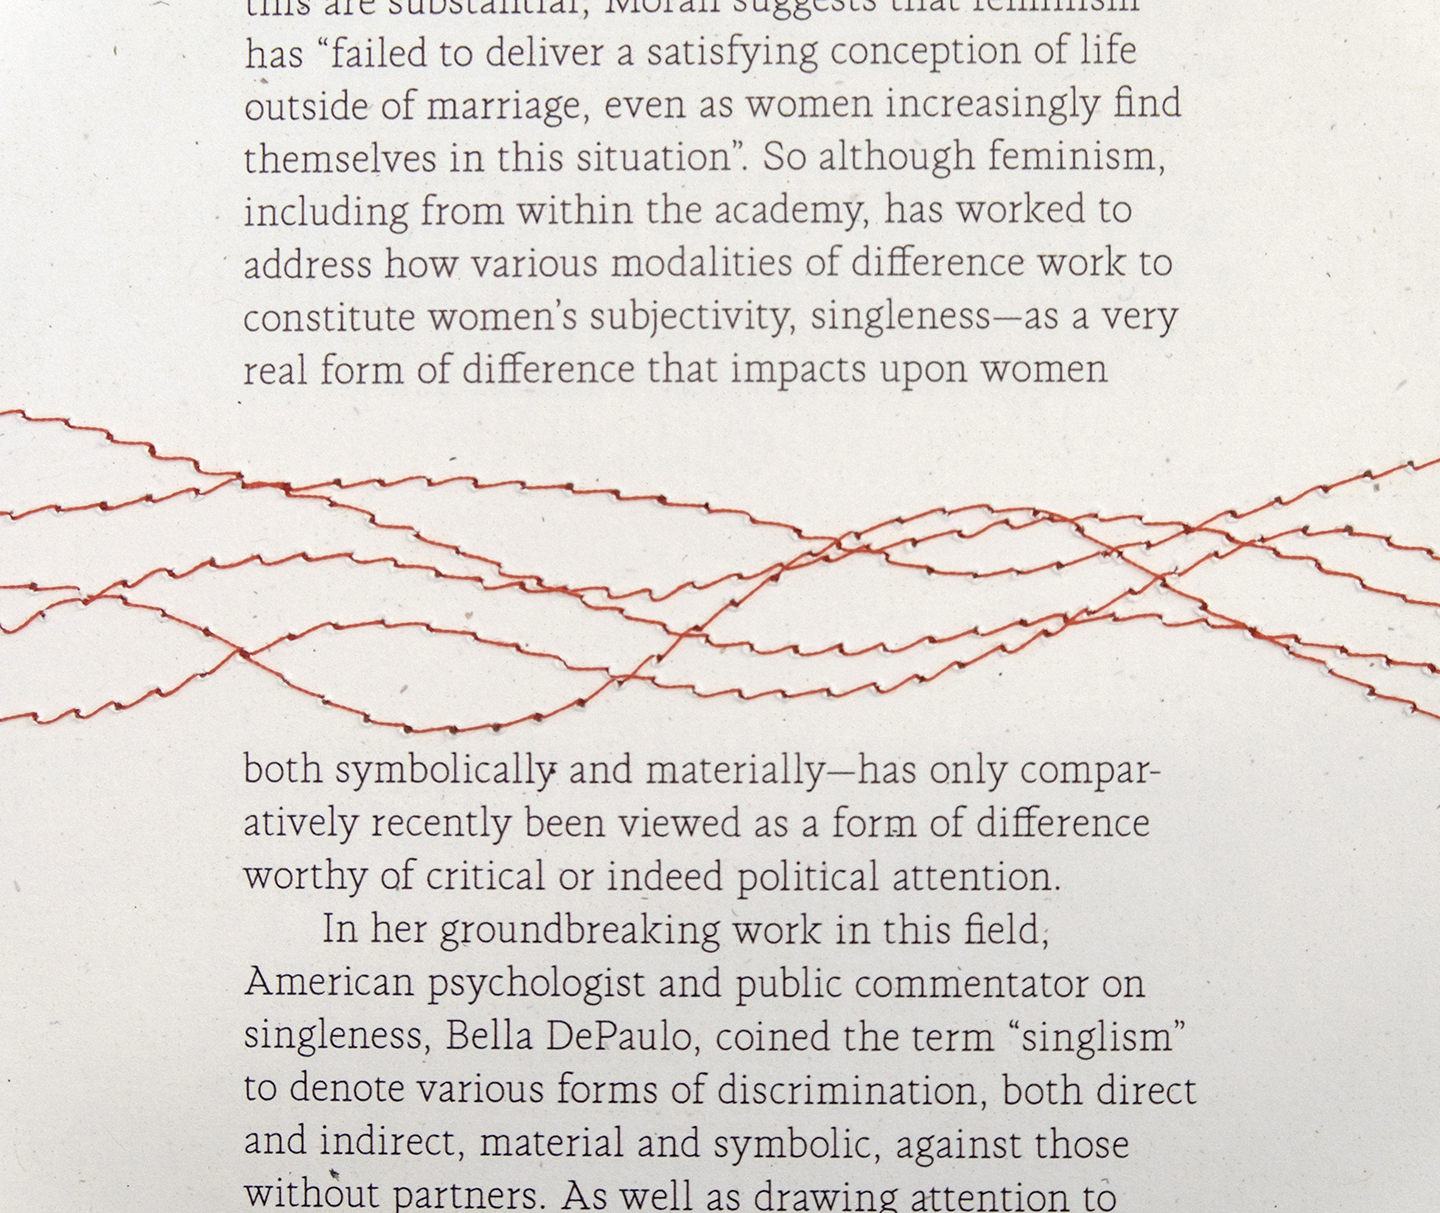
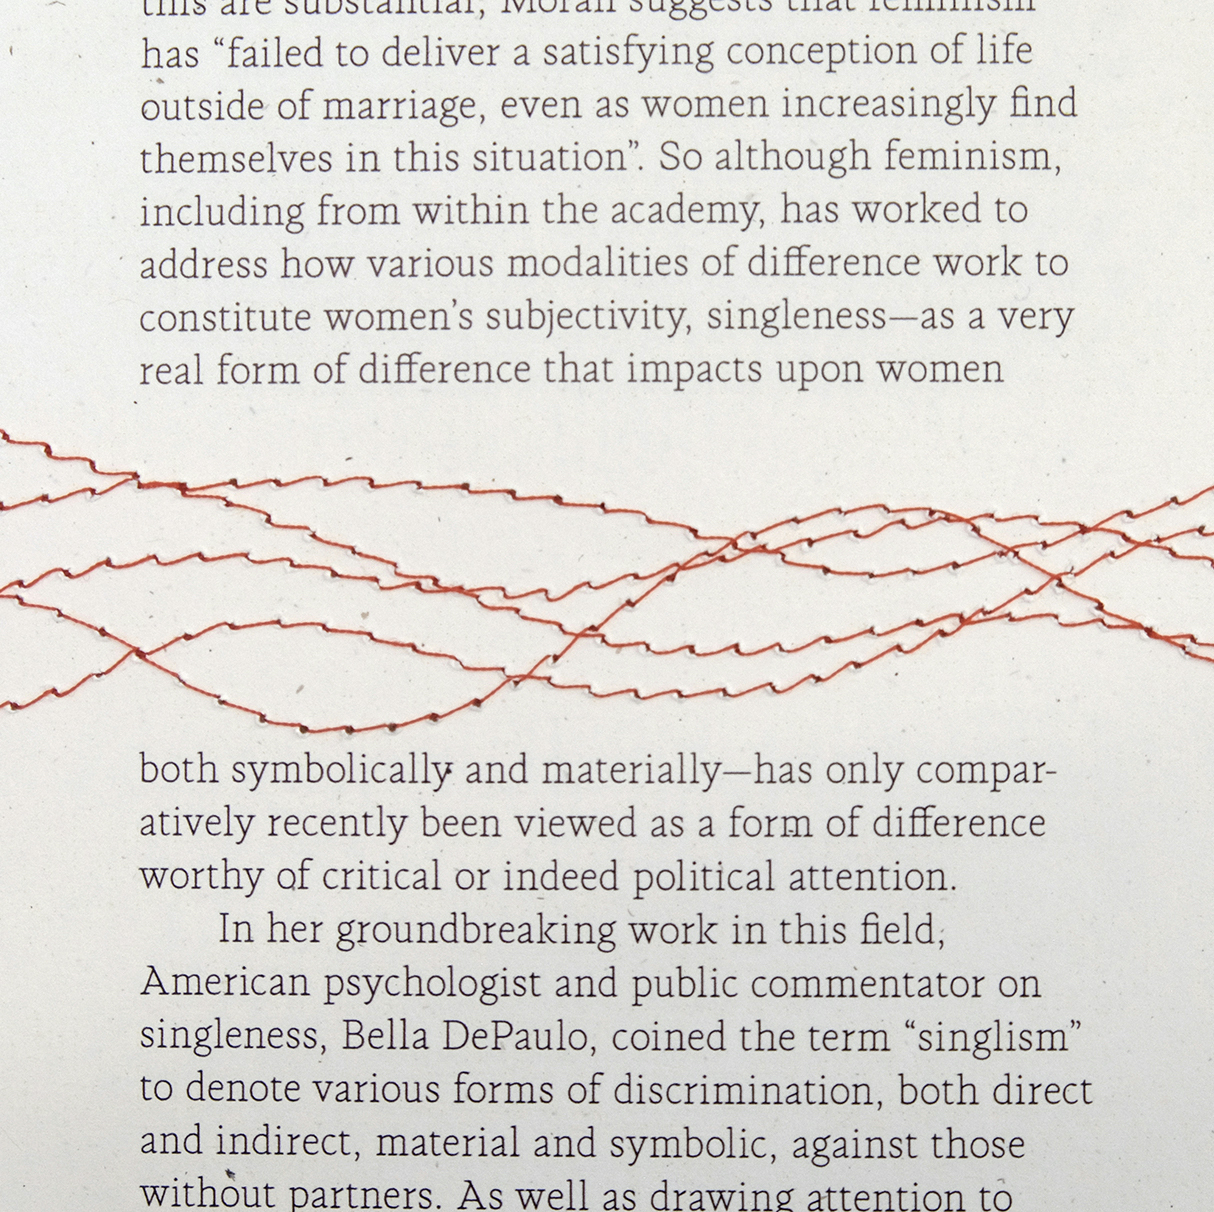
Add files via upload

Changed region(s): [[0.0, 0.3358, 1.0, 1.0], [0.1219, 0.0, 0.8839, 0.3358], [0.4876, 0.3969, 0.5181, 0.4274]]

diff --git a/spinster-book/styles.css b/spinster-book/styles.css
@@ -120,30 +120,31 @@ a{
     font-weight: 400;
     font-style: normal;
     font-size:20px;
-    line-height:24px;
+    line-height:28px;
 }
 
 .project-description{
     font-family: "azo-sans-web", sans-serif;
     font-weight: 300;
     font-style: normal;
-    font-size: 16px;
-    line-height:22px;
+    font-size: 20px;
+    line-height:26px;
 }
 
 .project-date{
     font-family: "azo-sans-web", sans-serif;
     font-weight: 300;
     font-style: normal;
-    font-size: 16px;
-    line-height:24px;
+    font-size: 20px;
+    line-height:28px;
 }
 
 .project-type{
     font-family: "azo-sans-web", sans-serif;
     font-weight: 300;
     font-style: italic;
-    line-height:24px;
+    font-size: 20px;
+    line-height:28px;
 }
 
 #spread{
@@ -166,7 +167,8 @@ a{
     font-family: "azo-sans-web", sans-serif;
     font-weight: 300;
     font-style: normal;
-    font-size:16pt;
+    font-size:20px;
+    line-height: 26px;
 }
 
 #second-chunk{
@@ -182,6 +184,7 @@ a{
 .box-images{
     width: 50%;
     height:auto;
+    align-self:center;
 }
 
 /* #stitches{
@@ -196,15 +199,16 @@ a{
     padding-bottom: 50px;
 }
 
-@media (max-width: 768px){
+@media (max-width: 770px){
     #cover{
         width: 100vw;
     }
 
     #description{
-        width: 100vw;
+        width: 85vw;
         padding:10px;
         padding-top: 50px; 
+        align-self: center;
     }
 
     .big-pic{
@@ -227,9 +231,9 @@ a{
 
     .blurb{
         width:80vw;
-        font-size: 14pt;
+        font-size: 20px;
+        line-height: 26px;
         margin:0px;
-
     }
 
     #first-chunk{

diff --git a/spinster-book/index.html b/spinster-book/index.html
@@ -4,7 +4,8 @@
         <link rel="stylesheet" href="https://use.typekit.net/tmr4dfb.css">
         <meta charset="utf-8">
         <meta http-equiv="X-UA-Compatible" content="IE=edge">
-        <title></title>
+        <title>Her Own Distinct Self</title>
+        <link rel="icon" type="image/x-icon" href="../favicon.png">
         <meta name="description" content="">
         <meta name="viewport" content="width=device-width, initial-scale=1">
         <link rel="stylesheet" href="styles.css">
